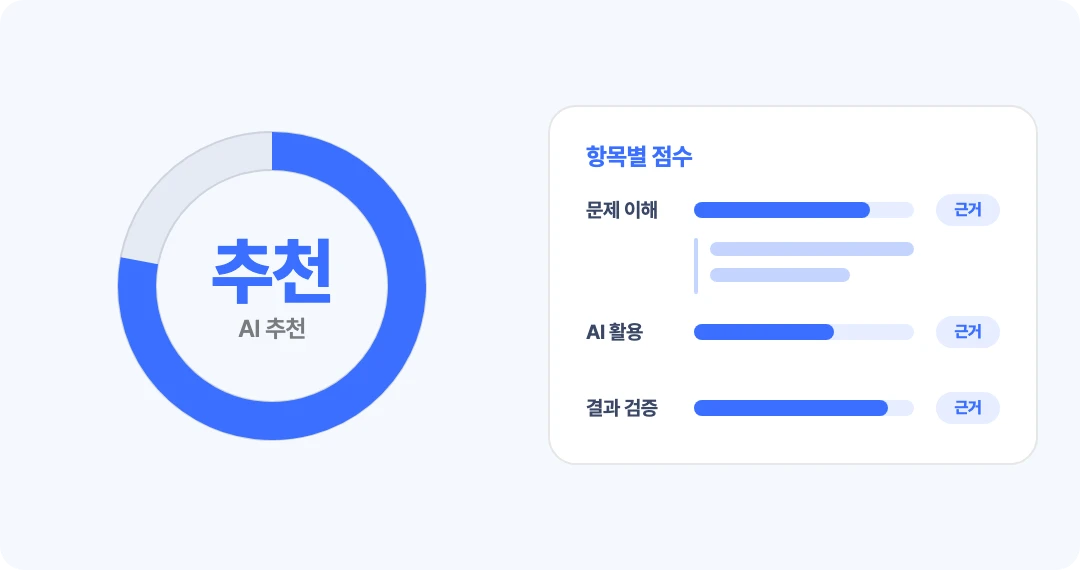
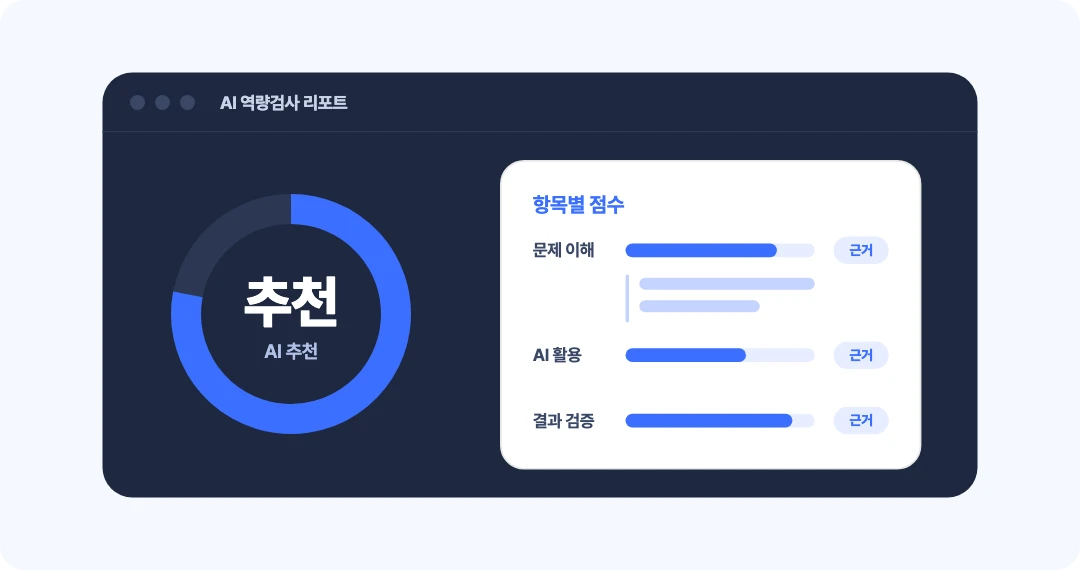
AI 역량검사 ⑥ 평가와 리포트 도식: ③·④와 같은 남색 화면 안으로
'여기만 약하다'는 피드백 — 연한 패널 위 도넛·카드였던 ⑥을 ③ 과제 화면·④ 과정 평가와
같은 자리·크기의 남색 화면(875×425, 창 점 3개 + 'AI 역량검사 리포트') 안에 넣었다.
도넛은 남색 위 색(바탕 고리 #2C3753, 글자 흰색), '항목별 점수' 카드는 0.86배로 그대로.

diff --git a/app/ai-assessment/page.tsx b/app/ai-assessment/page.tsx
@@ -182,7 +182,7 @@ export default function AiAssessmentPage() {
                 <p>채용팀은 항목마다 검토 완료나 이의를 표시하고, 정정한 평가를 공식 결과로 고를 수 있습니다. 원래 평가는 남습니다.</p>
               </div>
               <div className="hr-media">
-                <img className="hr-img" src="/diagram-scorecard.webp" alt="평가와 리포트 도식: AI 추천 등급과 항목별 점수, 근거" width={1080} height={570} loading="lazy" />
+                <img className="hr-img" src="/diagram-scorecard.webp" alt="평가와 리포트 도식: AI 역량검사 리포트 화면에 AI 추천 등급과 항목별 점수, 근거" width={1080} height={570} loading="lazy" />
               </div>
             </div>
           </div>
